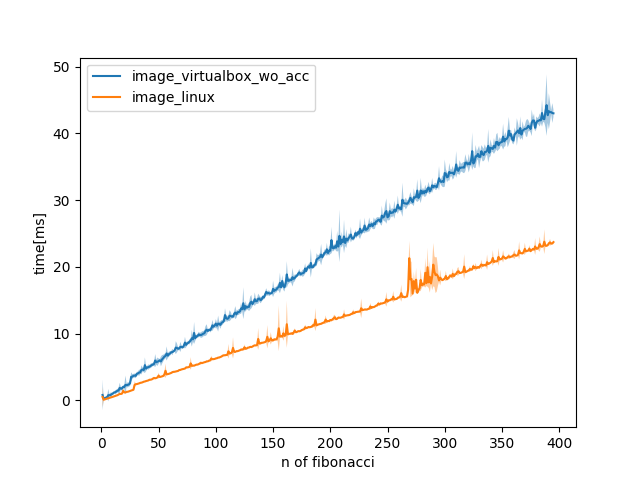
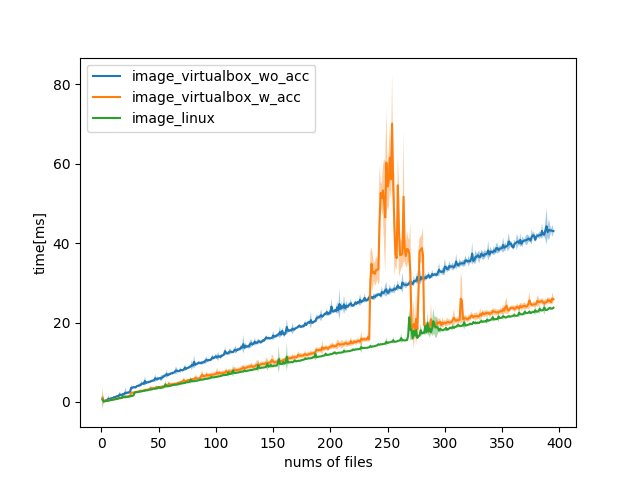
add image_w_acc

diff --git a/plot_image.py b/plot_image.py
@@ -34,7 +34,7 @@ def plot(record, file_name="img.png", sec_scale="mill"):
         print("###################")
 
     plt.legend()
-    plt.xlabel("n of fibonacci")
+    plt.xlabel("nums of files")
     plt.ylabel("time" + sec_unit)
     fig.savefig(file_name)
 
